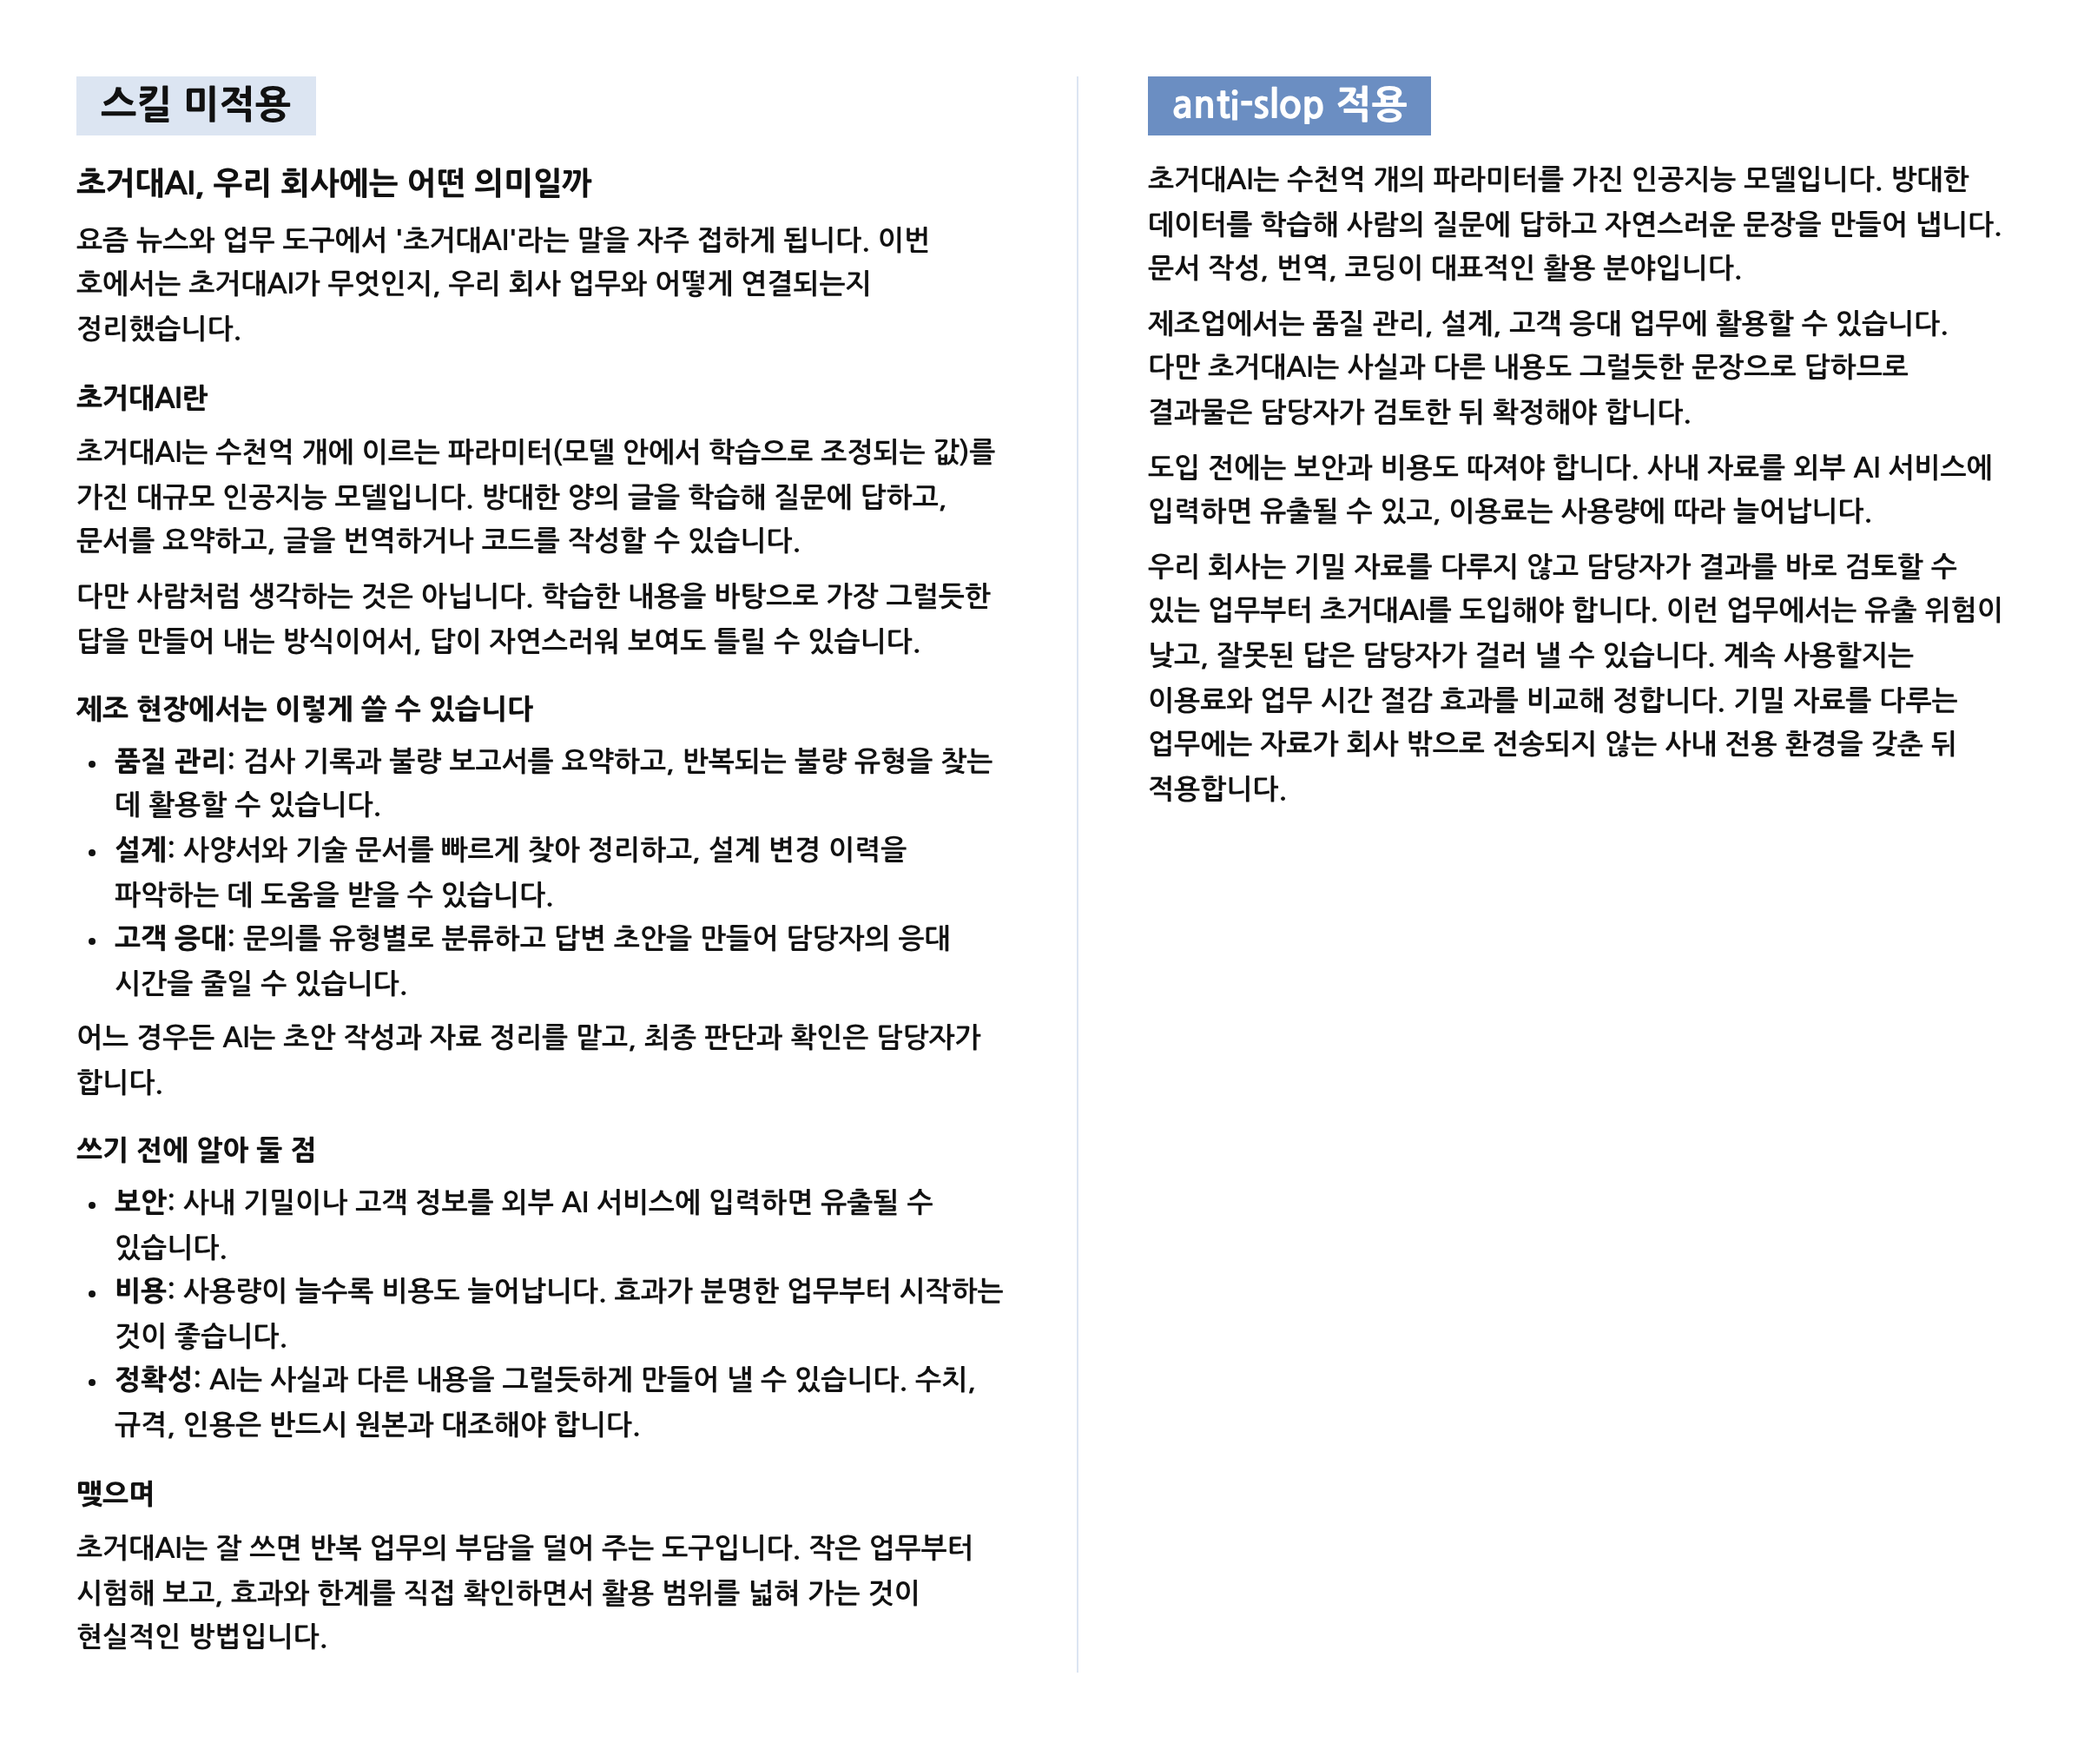
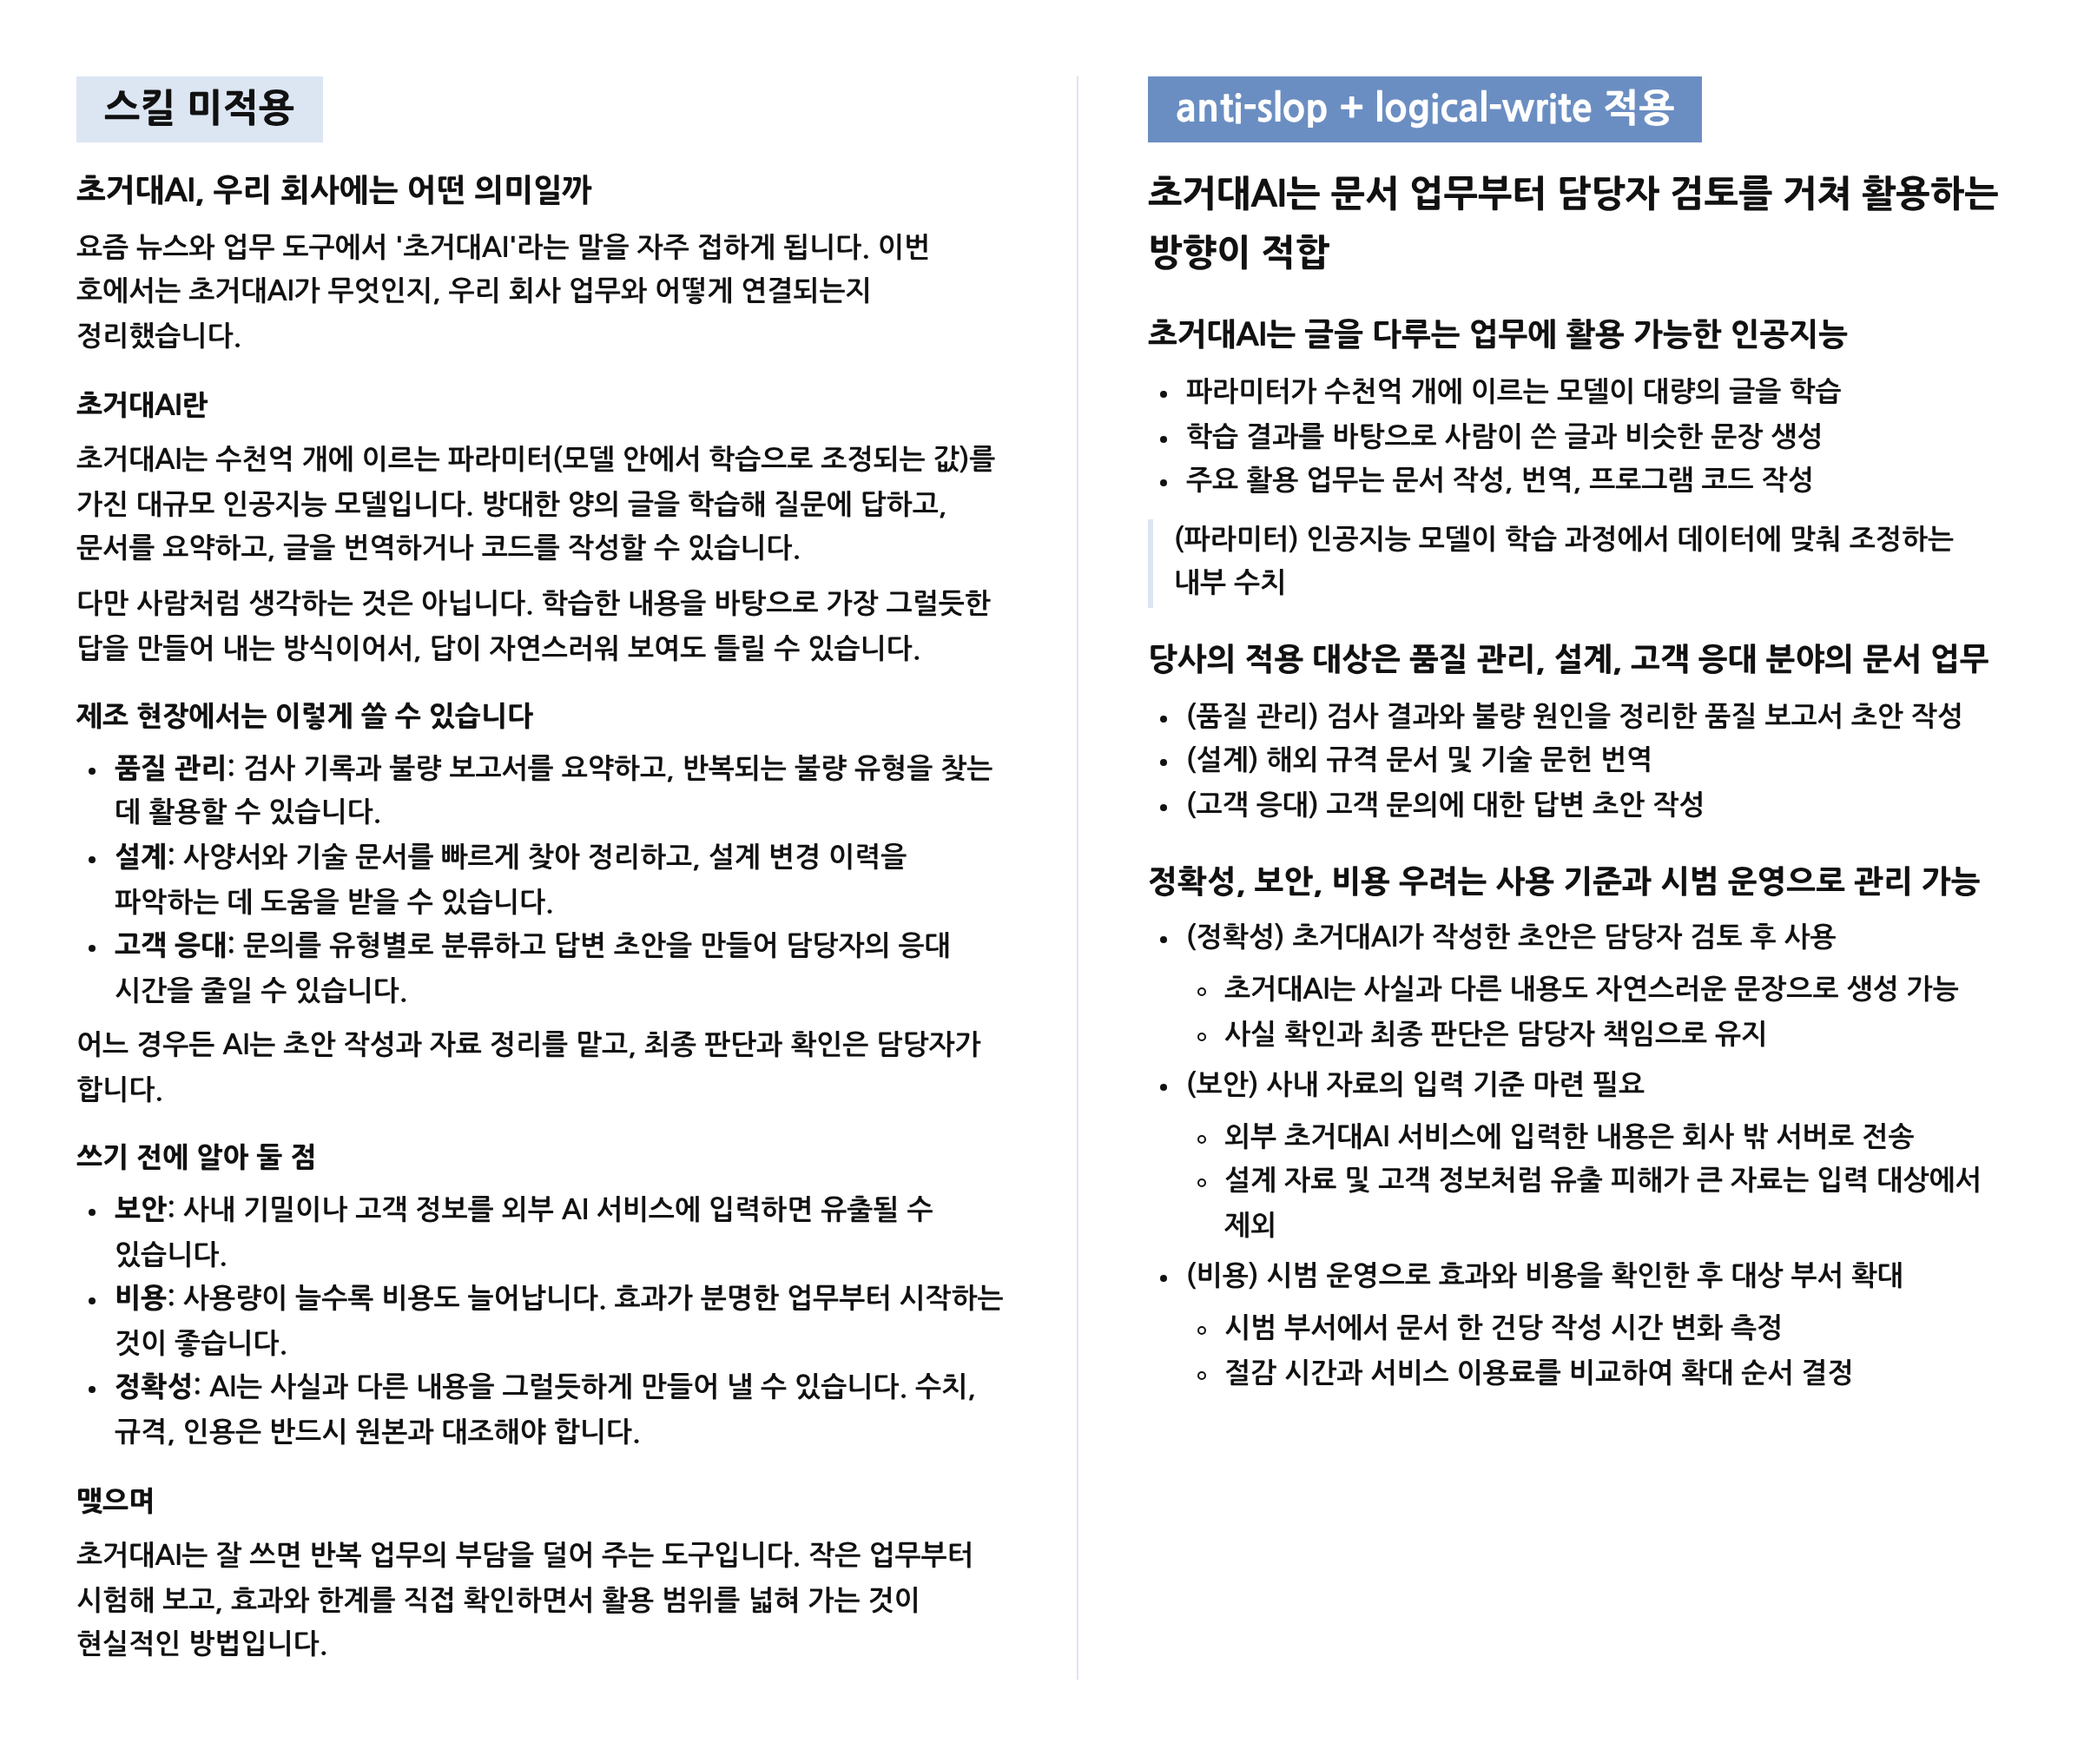
Rerun the anti-slop demo with logical-write applied together
The skill run now reads both the anti-slop and logical-write SKILL.md
files and follows them together, so the rewritten text comes out in
outline style. The baseline run is unchanged.

Claude-Session: https://claude.ai/code/session_01GGLbaL65V7p6PFmonQcYHU

diff --git a/skills/anti-slop/demo/after.md b/skills/anti-slop/demo/after.md
@@ -1,7 +1,24 @@
-초거대AI는 수천억 개의 파라미터를 가진 인공지능 모델입니다. 방대한 데이터를 학습해 사람의 질문에 답하고 자연스러운 문장을 만들어 냅니다. 문서 작성, 번역, 코딩이 대표적인 활용 분야입니다.
+# 초거대AI는 문서 업무부터 담당자 검토를 거쳐 활용하는 방향이 적합
 
-제조업에서는 품질 관리, 설계, 고객 응대 업무에 활용할 수 있습니다. 다만 초거대AI는 사실과 다른 내용도 그럴듯한 문장으로 답하므로 결과물은 담당자가 검토한 뒤 확정해야 합니다.
+## 초거대AI는 글을 다루는 업무에 활용 가능한 인공지능
+- 파라미터가 수천억 개에 이르는 모델이 대량의 글을 학습
+- 학습 결과를 바탕으로 사람이 쓴 글과 비슷한 문장 생성
+- 주요 활용 업무는 문서 작성, 번역, 프로그램 코드 작성
 
-도입 전에는 보안과 비용도 따져야 합니다. 사내 자료를 외부 AI 서비스에 입력하면 유출될 수 있고, 이용료는 사용량에 따라 늘어납니다.
+> (파라미터) 인공지능 모델이 학습 과정에서 데이터에 맞춰 조정하는 내부 수치
 
-우리 회사는 기밀 자료를 다루지 않고 담당자가 결과를 바로 검토할 수 있는 업무부터 초거대AI를 도입해야 합니다. 이런 업무에서는 유출 위험이 낮고, 잘못된 답은 담당자가 걸러 낼 수 있습니다. 계속 사용할지는 이용료와 업무 시간 절감 효과를 비교해 정합니다. 기밀 자료를 다루는 업무에는 자료가 회사 밖으로 전송되지 않는 사내 전용 환경을 갖춘 뒤 적용합니다.
+## 당사의 적용 대상은 품질 관리, 설계, 고객 응대 분야의 문서 업무
+- (품질 관리) 검사 결과와 불량 원인을 정리한 품질 보고서 초안 작성
+- (설계) 해외 규격 문서 및 기술 문헌 번역
+- (고객 응대) 고객 문의에 대한 답변 초안 작성
+
+## 정확성, 보안, 비용 우려는 사용 기준과 시범 운영으로 관리 가능
+- (정확성) 초거대AI가 작성한 초안은 담당자 검토 후 사용
+    + 초거대AI는 사실과 다른 내용도 자연스러운 문장으로 생성 가능
+    + 사실 확인과 최종 판단은 담당자 책임으로 유지
+- (보안) 사내 자료의 입력 기준 마련 필요
+    + 외부 초거대AI 서비스에 입력한 내용은 회사 밖 서버로 전송
+    + 설계 자료 및 고객 정보처럼 유출 피해가 큰 자료는 입력 대상에서 제외
+- (비용) 시범 운영으로 효과와 비용을 확인한 후 대상 부서 확대
+    + 시범 부서에서 문서 한 건당 작성 시간 변화 측정
+    + 절감 시간과 서비스 이용료를 비교하여 확대 순서 결정
